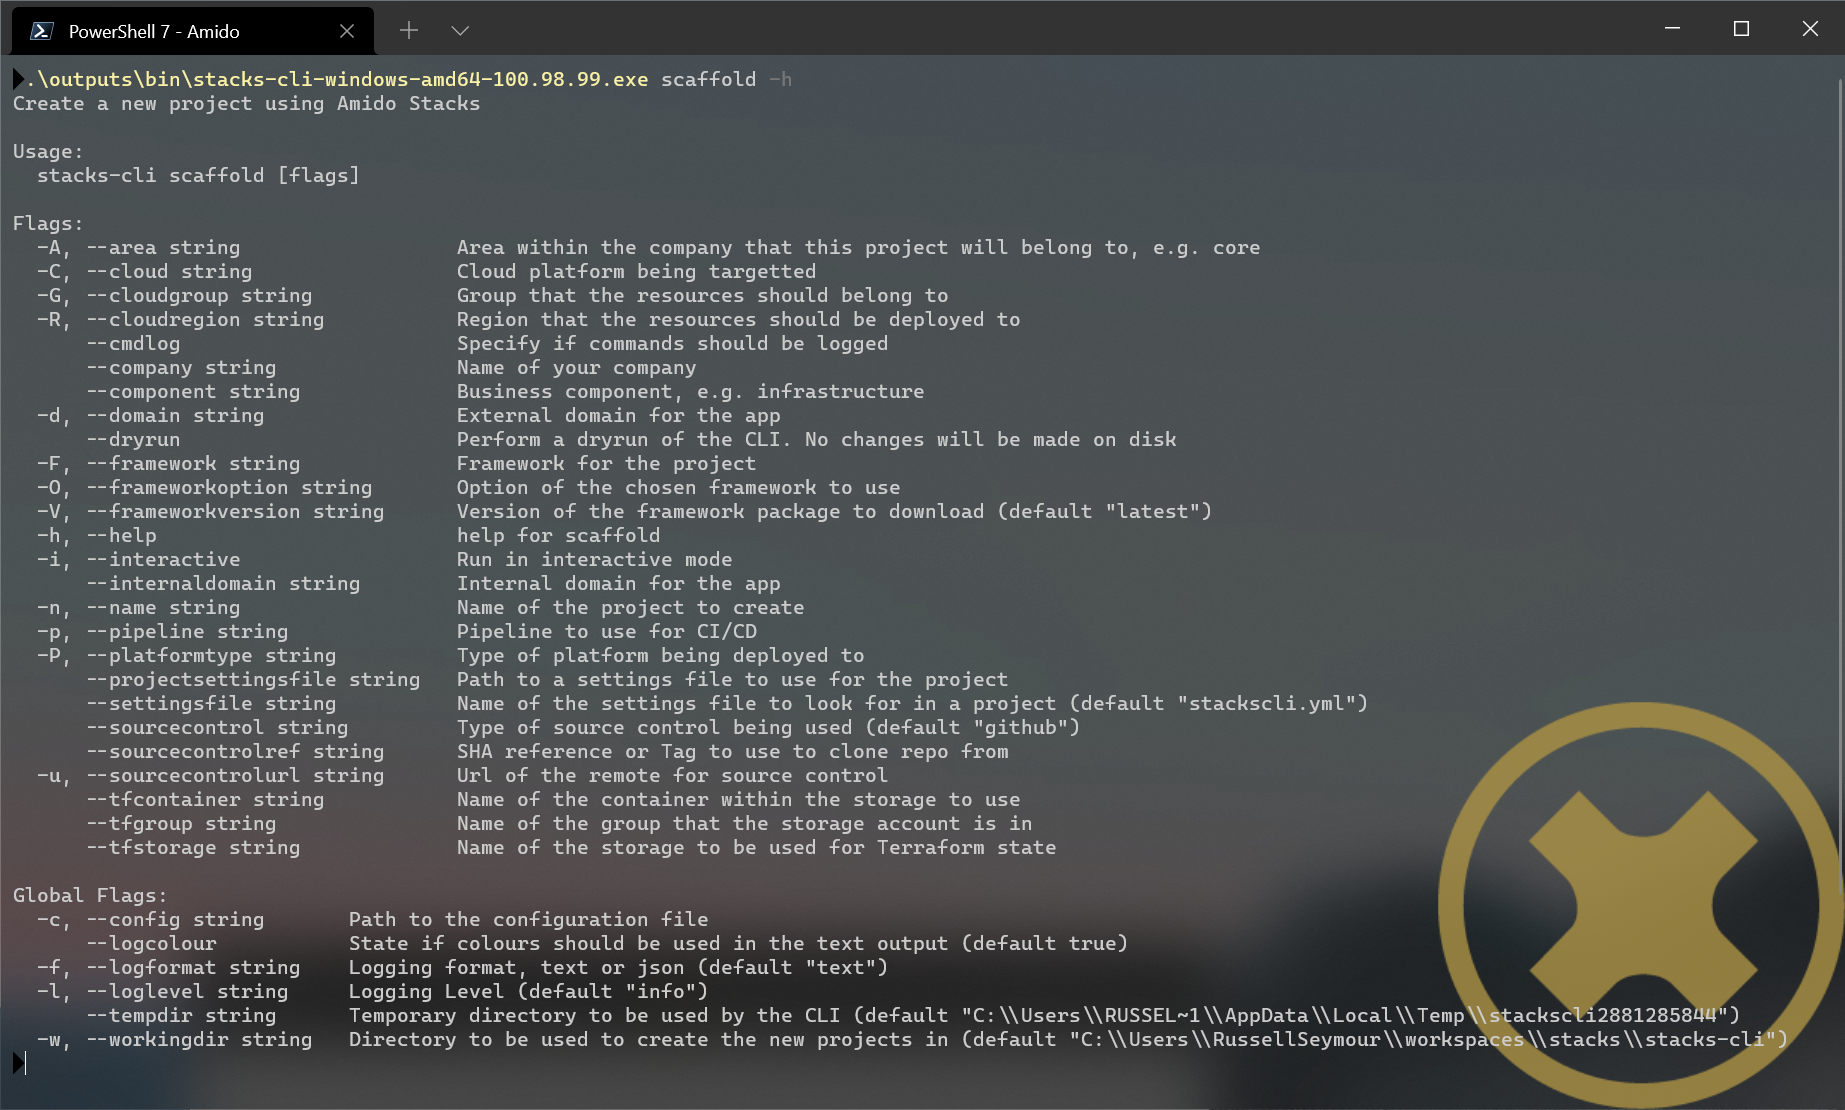
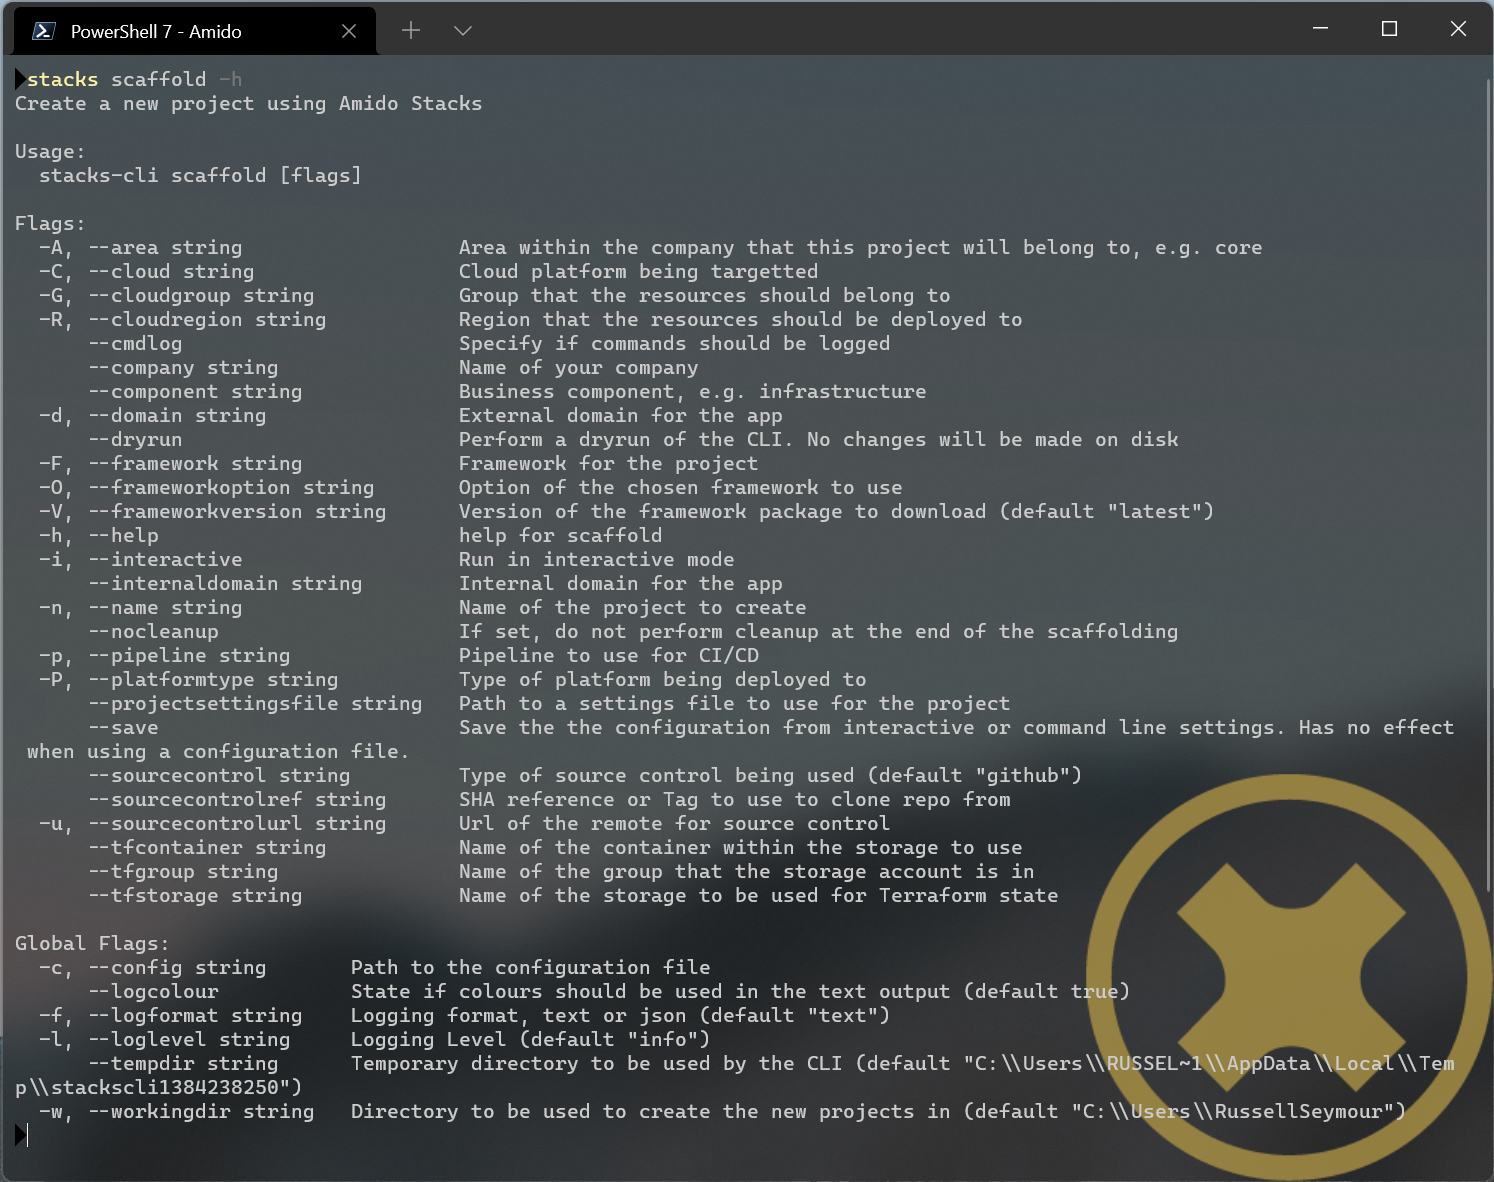
Updated documentation

Changed region(s): [[0.0, 0.0, 1.0, 1.0], [0.6774, 0.3676, 0.7697, 0.3982]]

diff --git a/internal/config/static/static.go b/internal/config/static/static.go
@@ -77,8 +77,8 @@ var stacks_frameworks string
 
 func FrameworkCommand(framework string) []string {
 	commands := map[string][]string{
-		"dotnet": {"dotnet"},
-		"java":   {"java"},
+		"dotnet": {"dotnet", "git"},
+		"java":   {"java", "git"},
 	}
 
 	return commands[framework]

diff --git a/pkg/config/answers.go b/pkg/config/answers.go
@@ -239,7 +239,7 @@ func (a *Answers) RunInteractive(config *Config) error {
 	}
 
 	// Output the banner to the screen
-	fmt.Print(static.Banner)
+	fmt.Printf(static.Banner)
 
 	// ask the questions
 	err = survey.Ask(a.getCoreQuestions(), a)
